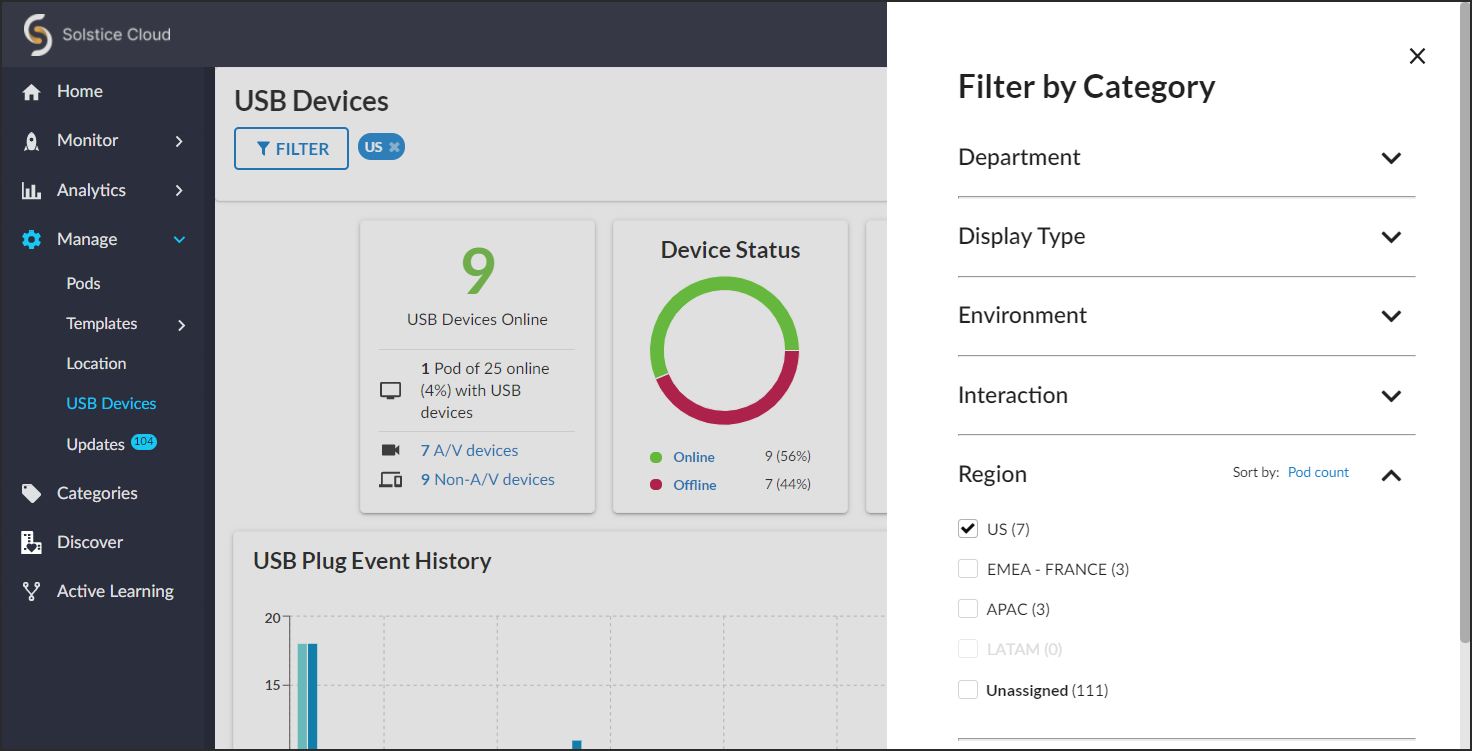
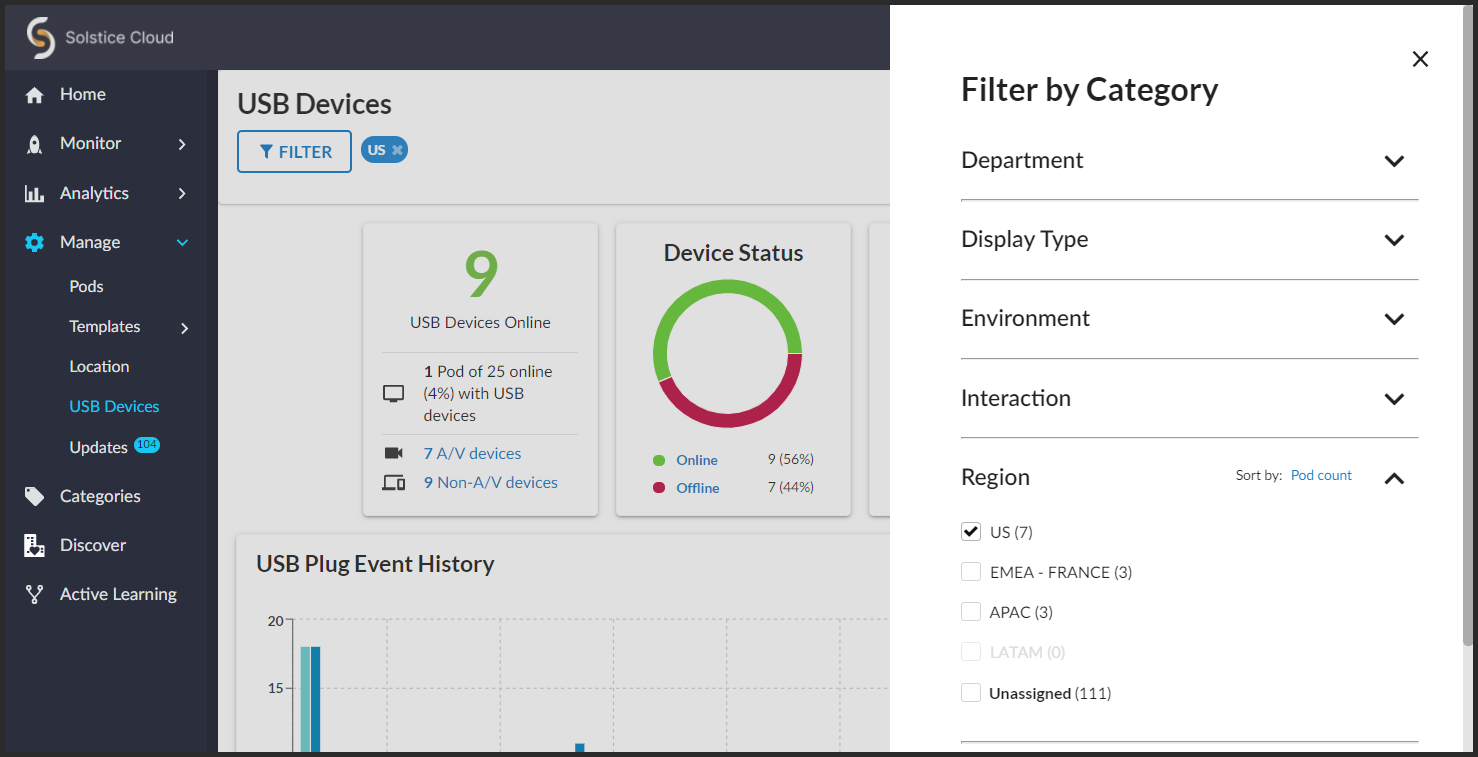
Link and screenshot updates for PDF Guides (mostly Cloud Admin Guide)

diff --git a/Content/Topics/User-Solstice-Conference.htm b/Content/Topics/User-Solstice-Conference.htm
@@ -15,7 +15,7 @@ Once connected, go to the <b>Conference</b> tab in your Solstice app. </li><img 
 </li><li>If a calendar entry was recognized as a video conference, the conferencing application will launch and start the appropriate meeting. Some conferencing applications may require an additional step to launch the meeting. 
 </li></ul><li>	Once you have joined your video conference meeting, if there is a room camera and microphone connected to Solstice, you will be able to select the room camera and microphone as the meeting's audio and video sources. 
 </li><li>To share the Solstice display to  remote attendees, select <b>Screen 2</b> from the sharing options within the video conferencing application. </li><li>Once you are done hosting the conference, stop sharing the display, end the video call, and disconnect from the Solstice display.
-</li></ol><h3>Bridge an In-progress Meeting to Solstice Conference</h3><p>There are multiple ways that Solstice Conference can support your web conference. This how-to will explain how to use bridge a video conference that has already been started to Solstice Conference. </p><ol><li>Once you have started your web conference, open your Solstice app. </li><li>Connect to the Solstice display by clicking on the display name. If prompted, enter in the 4-digit screen key listed on the display. </li><li>
+</li></ol><h3>Bridge an In-Progress Meeting to Solstice Conference</h3><p>There are multiple ways that Solstice Conference can support your web conference. This how-to will explain how to use bridge a video conference that has already been started to Solstice Conference. </p><ol><li>Once you have started your web conference, open your Solstice app. </li><li>Connect to the Solstice display by clicking on the display name. If prompted, enter in the 4-digit screen key listed on the display. </li><li>
 Once connected, go to the <b>Conference</b> tab in your Solstice app.</li><li>Click <b>Start</b>. Once the conference has been bridged, the Conference tab will say that you're currently a host of a bridged web conference. </li><p class="note">If there is a conflicting meeting listed, you should select the <b>Bridge without this calendar event</b> checkbox, then click <b>Start</b>. If you do not select this option before starting, Solstice will automatically launch that web conference.</p><li>	Once you have joined your video conference meeting, if there is a room camera and microphone connected to Solstice, you will be able to select the room camera and microphone as the meeting's audio and video sources. 
 </li><li>To share the Solstice display to  remote attendees, select <b>Screen 2</b> from the sharing options within the video conferencing application. </li><li>Once you are done hosting the conference, stop sharing the display, end the video call, and disconnect from the Solstice display.
 </li></ol><h3>End Your Conference and Disconnect from Solstice</h3><p>As the host, when your meeting is finished you will need to end your video conference and disconnect from Solstice. Here are two ways you can disconnect from Solstice:</p><MadCap:snippetBlock src="../Resources/Snippets/DisconnectSolstice.flsnp" /><h2>FAQ</h2><MadCap:dropDown><MadCap:dropDownHead><MadCap:dropDownHotspot class="FAQ">Why am I&#160;not seeing controls for minimizing or closing my Solstice app window?</MadCap:dropDownHotspot></MadCap:dropDownHead><MadCap:dropDownBody><p>Your Solstice app might be docked to your system tray. To remove this setting and regain controls for the Solstice app window, right-click the Solstice icon in your system tray, then deselect the <b>Dock to system tray option</b>. </p></MadCap:dropDownBody></MadCap:dropDown><MadCap:dropDown><MadCap:dropDownHead><MadCap:dropDownHotspot class="FAQ">I'm hosting a meeting, but Solstice keeps reminding me that I'm sharing a post to a display. How can I&#160;turn this off?</MadCap:dropDownHotspot></MadCap:dropDownHead><MadCap:dropDownBody><p>To limit Solstice notifications, open your Solstice app, then go to <b>Settings</b>. Under <b>General &gt; Notifications</b>, select either <b>None</b> or <b>Critical</b>, depending on your notification preferences. </p><MadCap:snippetBlock src="../Resources/Snippets/Solstice-App-Notifications-Conference.flsnp" /></MadCap:dropDownBody></MadCap:dropDown><MadCap:dropDown><MadCap:dropDownHead><MadCap:dropDownHotspot class="FAQ">Why is the Solstice display showing up as Screen 3 in my video conferencing application?</MadCap:dropDownHotspot></MadCap:dropDownHead><MadCap:dropDownBody><p>This could be due to your laptop having additional virtual desktops. As a note, Mersive strongly advises against using additional virtual desktops alongside Solstice Conference. </p></MadCap:dropDownBody></MadCap:dropDown><h3 MadCap:conditions="Default.ScreenOnly">Next Topic</h3><p MadCap:conditions="Default.ScreenOnly"><a href="User-Control-Layout.htm">Control Content Layout</a></p></body>

diff --git a/Content/Topics/kepler-schedule-updates.htm b/Content/Topics/kepler-schedule-updates.htm
@@ -58,7 +58,7 @@
             <MadCap:dropDownBody>
                 <ol>
                     <li>In the left sidebar menu of the Solstice Cloud portal, go to <b>Manage</b> &gt;&#160;<b>Updates</b>.</li>
-                    <li>In the Solstice Software Updates Overview section, go to the <b>Tasks</b> tab. <br /><br /><img src="../Resources/Images/ex_kepler_update_tasks.png" style="width: 1068px;height: 500px;" /></li>
+                    <li>In the Solstice Software Updates Overview section, go to the <b>Tasks</b> tab. <br /><br /><img src="../Resources/Images/ex_CloudManageUpdatesTasks.png" style="width: 1068px;height: 500px;" /></li>
                     <li>On this tab, you can view all in progress and scheduled software updates. Scheduled updates can be edited up until the update begins. Once an update is in progress, it cannot be paused or canceled. </li>
                 </ol>
             </MadCap:dropDownBody>
@@ -89,7 +89,7 @@
             <MadCap:dropDownBody>
                 <ol>
                     <li>In the left sidebar menu of the Solstice Cloud portal, go to <b>Manage</b> &gt;&#160;<b>Updates</b>.</li>
-                    <li>In the Solstice Software Updates Overview section, go to the <b>History</b> tab. <br></br><br></br><img src="../Resources/Images/ex_kepler_update_history.png" style="width: 1068px;height: 500px;"></img></li>
+                    <li>In the Solstice Software Updates Overview section, go to the <b>History</b> tab. <br></br><br></br><img src="../Resources/Images/ex_CloudManageUpdateHistory.png" style="width: 1068px;height: 500px;"></img></li>
                     <li>On this tab, you can view the history of completed update tasks. Click on an item row to view the details of the software update. </li>
                     <li>If an error occurred during the software update,  a warning icon <img src="../Resources/Images/i_keplerwarning.png" /> will appear next to the completed task. If a Pod’s software update failed, the Pod will appear back in the Updates tab as ready to update. You can then choose to update that Pod, or reschedule it to update at a later time. </li>
                 </ol>

diff --git a/Content/Topics/Cloud-Schedule-Updates.htm b/Content/Topics/Cloud-Schedule-Updates.htm
@@ -58,7 +58,7 @@
             <MadCap:dropDownBody>
                 <ol>
                     <li>In the left sidebar menu of the Solstice Cloud portal, go to <b>Manage</b> &gt;&#160;<b>Updates</b>.</li>
-                    <li>In the Solstice Software Updates Overview section, go to the <b>Tasks</b> tab. <br /><br /><img src="../Resources/Images/ex_kepler_update_tasks.png" style="width: 1068px;height: 500px;" /></li>
+                    <li>In the Solstice Software Updates Overview section, go to the <b>Tasks</b> tab. <br /><br /><img src="../Resources/Images/ex_CloudManageUpdatesTasks.png" style="width: 90%;height: auto;" /></li>
                     <li>On this tab, you can view all in progress and scheduled software updates. Scheduled updates can be edited up until the update begins. Once an update is in progress, it cannot be paused or canceled. </li>
                 </ol>
             </MadCap:dropDownBody>
@@ -89,7 +89,7 @@
             <MadCap:dropDownBody>
                 <ol>
                     <li>In the left sidebar menu of the Solstice Cloud portal, go to <b>Manage</b> &gt;&#160;<b>Updates</b>.</li>
-                    <li>In the Solstice Software Updates Overview section, go to the <b>History</b> tab. <br></br><br></br><img src="../Resources/Images/ex_kepler_update_history.png" style="width: 1068px;height: 500px;"></img></li>
+                    <li>In the Solstice Software Updates Overview section, go to the <b>History</b> tab. <br></br><br></br><img src="../Resources/Images/ex_CloudManageUpdateHistory.png" style="width: 90%;height: auto;"></img></li>
                     <li>On this tab, you can view the history of completed update tasks. Click on an item row to view the details of the software update. </li>
                     <li>If an error occurred during the software update,  a warning icon <img src="../Resources/Images/i_keplerwarning.png" /> will appear next to the completed task. If a Pod’s software update failed, the Pod will appear back in the Updates tab as ready to update. You can then choose to update that Pod, or reschedule it to update at a later time. </li>
                 </ol>

diff --git a/Content/Topics/User-Sharing-Content.htm b/Content/Topics/User-Sharing-Content.htm
@@ -5,7 +5,7 @@
     <body>
         <h1>Sharing Content Using the Solstice App</h1>
         <p>Solstice improves meeting productivity and engagement with multi-participant content sharing, control, and markup. With the Mersive Solstice app installed on a laptop, tablet, or mobile device, users can share and control content on the display connected to a Solstice Pod. <MadCap:conditionalText MadCap:conditions="Default.ScreenOnly">(For more information on how to download the Solstice app, see <a href="User-Solstice-User-App.htm">Mersive Solstice App</a>.)</MadCap:conditionalText></p>
-        <p>Users can also use one of the supported app-free sharing options to share to the Solstice display if they don't have the Solstice app. See <a href="User-Sharing-Mirror-Device.htm">App-free Sharing to a Solstice Display</a> to learn more about Solstice's app-free sharing options. </p>
+        <p>Users can also use one of the supported app-free sharing options to share to the Solstice display if they don't have the Solstice app. See <a href="User-Sharing-Mirror-Device.htm">App-Free Sharing to a Solstice Display</a> to learn more about Solstice's app-free sharing options. </p>
         <h3>How to Connect to a Solstice Display</h3>
         <p>Ensure you are connected to a network listed on the display’s Welcome Screen, then connect to the Solstice display to share content:</p>
         <MadCap:snippetBlock src="../Resources/Snippets/Connect-Solstice-Display-from-App.flsnp" />
@@ -25,7 +25,7 @@
         <p>When your meeting is finished, you will need to disconnect from Solstice. There are a couple of ways to disconnect from a Solstice display:</p>
         <MadCap:snippetBlock src="../Resources/Snippets/DisconnectSolstice.flsnp" />
         <h3 MadCap:conditions="Default.ScreenOnly">Next Topic</h3>
-        <p MadCap:conditions="Default.ScreenOnly"><a href="User-Sharing-Mirror-Device.htm">App-free Sharing to a Solstice Display</a>
+        <p MadCap:conditions="Default.ScreenOnly"><a href="User-Sharing-Mirror-Device.htm">App-Free Sharing to a Solstice Display</a>
         </p>
     </body>
 </html>

diff --git a/Content/Topics/Cloud-Management-Templates.htm b/Content/Topics/Cloud-Management-Templates.htm
@@ -33,13 +33,13 @@
                 <ol>
                     <li>In the left sidebar menu of the Solstice Cloud portal, click <b>Manage</b> &gt;&#160;<b>Pods</b>. </li>
                     <li>In the Pod Template Assignments table, click the name of the Pod you want to configure.</li>
-                    <li>In the Template Configuration section click the expand icon <img src="../Resources/Images/i_expand.png" /> to display the options available for a particular category.<p><img src="../Resources/Images/cloud_configurePodSettings.png" style="width: 547px;height: 497px;" /></p></li>
-                    <li>Configure the settings as desired and then click <b>Save as Unassigned</b>.<p><img src="../Resources/Images/cloud_saveAsUnassigned.png" style="width: 814px;height: 95px;" /></p></li>
+                    <li>In the Template Configuration section click the expand icon <img src="../Resources/Images/i_expand.png" /> to display the options available for a particular category.<p><img src="../Resources/Images/cloud_configurePodSettings.png" style="width: 80%;height: auto;" /></p></li>
+                    <li>Configure the settings as desired and then click <b>Save as Unassigned</b>.<p><img src="../Resources/Images/cloud_saveAsUnassigned.png" style="height: auto;width: 90%;" /></p></li>
                 </ol>
                 <p>A message appears confirming the Pod configuration has been updated. Additionally, until the configuration has been successfully applied to the Pod, an option  is available to Cancel Pending Changes.</p>
                 <blockquote>
                     <p>
-                        <img src="../Resources/Images/cloud_saveAsUnassigned_CancelPendingChanges.png" style="width: 812px;height: 93px;" />
+                        <img src="../Resources/Images/cloud_saveAsUnassigned_CancelPendingChanges.png" style="width: 95%;height: auto;" />
                     </p>
                 </blockquote>
             </MadCap:dropDownBody>

diff --git a/Content/Topics/Cloud-Template-Features.htm b/Content/Topics/Cloud-Template-Features.htm
@@ -7,7 +7,7 @@
         <h1>Features Template</h1>
         <p>The Features template allows you to configure options for how attendees may view and interact with the Solstice display. There are options that determine how attendees can connect to the meeting, as well as how they may view and share content on their personal devices. Miracast support for Windows devices can also be enabled. For more information on how to configure Solstice to support sharing with AirPlay and Miracast, see <a href="Admin-Enabling-AirPlay.htm" target="_blank">Enable Sharing with AirPlay</a> and <a href="Admin-Enabling-Miracast.htm" target="_blank">Enable Sharing with Miracast</a>.</p>
         <p>
-            <img src="../Resources/Images/Templates-sidebarnav-features.png" style="border-left-style: solid;border-left-width: ;border-left-color: ;border-right-style: solid;border-right-width: ;border-right-color: ;border-top-style: solid;border-top-width: ;border-top-color: ;border-bottom-style: solid;border-bottom-width: ;border-bottom-color: ;border-top-left-radius: 1px;border-top-right-radius: 1px;border-bottom-right-radius: 1px;border-bottom-left-radius: 1px;width: 760px;height: auto;" />
+            <img src="../Resources/Images/Templates-sidebarnav-features.png" style="border-left-style: solid;border-left-width: ;border-left-color: ;border-right-style: solid;border-right-width: ;border-right-color: ;border-top-style: solid;border-top-width: ;border-top-color: ;border-bottom-style: solid;border-bottom-width: ;border-bottom-color: ;border-top-left-radius: 1px;border-top-right-radius: 1px;border-bottom-right-radius: 1px;border-bottom-left-radius: 1px;height: auto;width: 90%;" />
         </p>
         <h2>How To</h2>
         <MadCap:dropDown>

diff --git a/Content/Topics/Cloud-Template-Discovery.htm b/Content/Topics/Cloud-Template-Discovery.htm
@@ -7,7 +7,7 @@
         <p>Display discovery refers to the ability for a user to "discover" what Solstice displays are available to connect to. A user may always connect to a Pod by typing the Pod’s IP address into the Solstice App. However, Solstice discovery can streamline the connection process by listing all Pods available for connection and enabling users to simply click a Pod’s name to connect. This template allows you to configure the settings for two discovery methods that will enable this click-to-connect functionality: broadcast discovery or Solstice Discovery Service (SDS). </p>
         <p>The Solstice Discovery Service (SDS) is an IT-friendly, non-broadcast mechanism that allows users to discover and click-to-connect to Solstice displays from their own devices to start sharing content. SDS makes connecting to a Solstice display fast and easy for users, especially those on networks that don't allow broadcast traffic. For more information on how to implement and configure SDS, see <MadCap:conditionalText MadCap:conditions="Default.PrintOnly">our 'Solstice Discovery Service (SDS)&#160;Guide'.</MadCap:conditionalText> <a href="SDS-Introduction.htm" MadCap:conditions="Default.ScreenOnly">Solstice Discovery Service (SDS). </a></p>
         <p>
-            <img src="../Resources/Images/Templates-sidebarnav-Discovery.png" style="width: 703px;height: 491px;" />
+            <img src="../Resources/Images/Templates-sidebarnav-Discovery.png" style="width: 90%;height: auto;" />
         </p>
         <h2>How To</h2>
         <MadCap:dropDown>

diff --git a/Content/Topics/Cloud-Management-USB-Devices.htm b/Content/Topics/Cloud-Management-USB-Devices.htm
@@ -6,7 +6,7 @@
         <h1>View and Manage USB&#160;Devices</h1>
         <p>Solstice Cloud allows you to easily view which Pods in your deployment are connected to which kinds of USB devices, both audio/video devices and other devices, such as input and storage peripherals. Knowing which Pods have connected cameras allows you to then enable Solstice Conference and occupancy counting in the <a href="Cloud-Template-Room-Intelligence.htm" target="_blank">Room Intelligence</a> options for those Pods. USB&#160;Devices data can be viewed in the initial deployment of this feature, and management functionality is coming soon.</p>
         <p>
-            <img src="../Resources/Images/ex_CloudManageUSBDevicesStatus.png" style="width: 967px;height: 621px;" alt="screenshot of USB Devices page showing three summary boxes and a graph" />
+            <img src="../Resources/Images/ex_CloudManageUSBDevicesStatus.png" style="width: 90%;height: auto;" alt="screenshot of USB Devices page showing three summary boxes and a graph" />
         </p>
         <h2>USB Devices Summary Data</h2>
         <p>Solstice Cloud reports the number and type of USB&#160;devices connected to the Solstice Pods in your organization, both online and offline, as well as details about specific USB devices that have been used on Pods in your organization. The three boxes at the top of the USB Devices page contain summary data about USB&#160;devices connected to your Pods.</p>

diff --git a/Content/Topics/Cloud-Template-Room-Intelligence.htm b/Content/Topics/Cloud-Template-Room-Intelligence.htm
@@ -7,7 +7,7 @@
         <h1>Room Intelligence Template</h1>
         <p>The Room Intelligence template page controls a suite of system preferences that allows your Solstice display to sense a conference room's configuration, status, and location and  provide a simple, intuitive experience with any conferencing solution. </p>
         <p>
-            <img src="../Resources/Images/Templates-sidebarnav-RoomIntel.png" style="width: 771px;height: 293px;" alt="New Room Intelligence template in Manage &gt; Templates section of Solstice Dashboard - contains Enter Template Name textbox, Enable Solstice Conferencing checkbox (checked), Enable location services checkbox (checked), Enable occupancy data checkbox (unchecked), Cancel and Save buttons in upper right" />
+            <img src="../Resources/Images/Templates-sidebarnav-RoomIntel.png" style="width: 90%;height: auto;" alt="New Room Intelligence template in Manage &gt; Templates section of Solstice Dashboard - contains Enter Template Name textbox, Enable Solstice Conferencing checkbox (checked), Enable location services checkbox (checked), Enable occupancy data checkbox (unchecked), Cancel and Save buttons in upper right" />
         </p>
         <h2>How To</h2>
         <MadCap:dropDown>

diff --git a/Content/Topics/Cloud-Template-Power-Mgmt.htm b/Content/Topics/Cloud-Template-Power-Mgmt.htm
@@ -7,7 +7,7 @@
         <p>Power management templates allow you to schedule  when a Pod's display monitor will turn off after being idle for the specified amount of time. Solstice can do this using one of two methods: suspending the HDMI signal being sent to the display, which allows the display monitors  to use their own sleep settings, or by sending an RS-232 command to the display to turn off. The display will turn back on if any activity occurs. Power Management options are available for Gen2i and Gen3 Pods.</p>
         <p class="note">If a calendar integration has been enabled on the Pod, and a meeting is scheduled, the Pod will not suspend the display. Even if no one has connected to the Pod, and even if a Pod that is configured to detect room occupancy does not detect anyone in the room, the display will not be suspend until after the scheduled meeting has ended.</p>
         <p>
-            <img src="../Resources/Images/Templates-sidebarnav-PowerManagement.png" style="max-width: 100%;" />
+            <img src="../Resources/Images/Templates-sidebarnav-PowerManagement.png" style="max-width: 100%;width: 90%;" />
         </p>
         <h2>How To</h2>
         <MadCap:dropDown>

diff --git a/Content/Topics/User-Sharing-Mirror-Device.htm b/Content/Topics/User-Sharing-Mirror-Device.htm
@@ -1,10 +1,10 @@
 <?xml version="1.0" encoding="utf-8"?>
 <html xmlns:MadCap="http://www.madcapsoftware.com/Schemas/MadCap.xsd" style="mc-master-page: url('../Resources/MasterPages/OtherTopics.flmsp');">
     <head>
-        <link href="../Resources/TableStylesheets/SupportTable.css" rel="stylesheet" MadCap:stylesheetType="table" /><title>App-free Sharing to a Solstice Display</title>
+        <link href="../Resources/TableStylesheets/SupportTable.css" rel="stylesheet" MadCap:stylesheetType="table" /><title>App-Free Sharing to a Solstice Display</title>
     </head>
     <body>
-        <h1>App-free Sharing to a Solstice Display</h1>
+        <h1>App-Free Sharing to a Solstice Display</h1>
         <p>Solstice supports multiple app-free sharing options so that users can share their device screen to the Solstice display without needing the Solstice App. This allows for guest and occasional users to quickly share content in a Solstice room. Solstice supports app-free sharing using AirPlay, Miracast, browser-based sharing, or a standard HDMI connection. </p>
         <p MadCap:conditions="Default.ScreenOnly">This topic covers:</p>
         <ul MadCap:conditions="Default.ScreenOnly">

diff --git a/Content/Topics/Cloud-Roles-Permissions.htm b/Content/Topics/Cloud-Roles-Permissions.htm
@@ -11,13 +11,8 @@
             <li>
                 <p><b>Active Learning Designer</b>: Can use the Solstice Active Learning app to virtually design and set up the active learning rooms. Designers are also able to conduct active learning sessions and route video and content in the active learning room.</p>
             </li>
-            <li>
-                <p><b>Active Learning Facilitator</b>:  Can use the Active Learning app to conduct active learning sessions and route video and content in the active learning room.</p>
-            </li>
+            <li><b>Active Learning Facilitator</b>: Can use the Active Learning app to conduct active learning sessions and route video and content in the active learning room.<br /><p><img src="../Resources/Images/ex_CloudAdminUserRoles.png" style="width: 90%;" /></p></li>
         </ul>
-        <p>
-            <img src="../Resources/Images/ex_CloudAdminUserRoles.png" />
-        </p>
         <h2>How To</h2>
         <MadCap:dropDown>
             <MadCap:dropDownHead>
